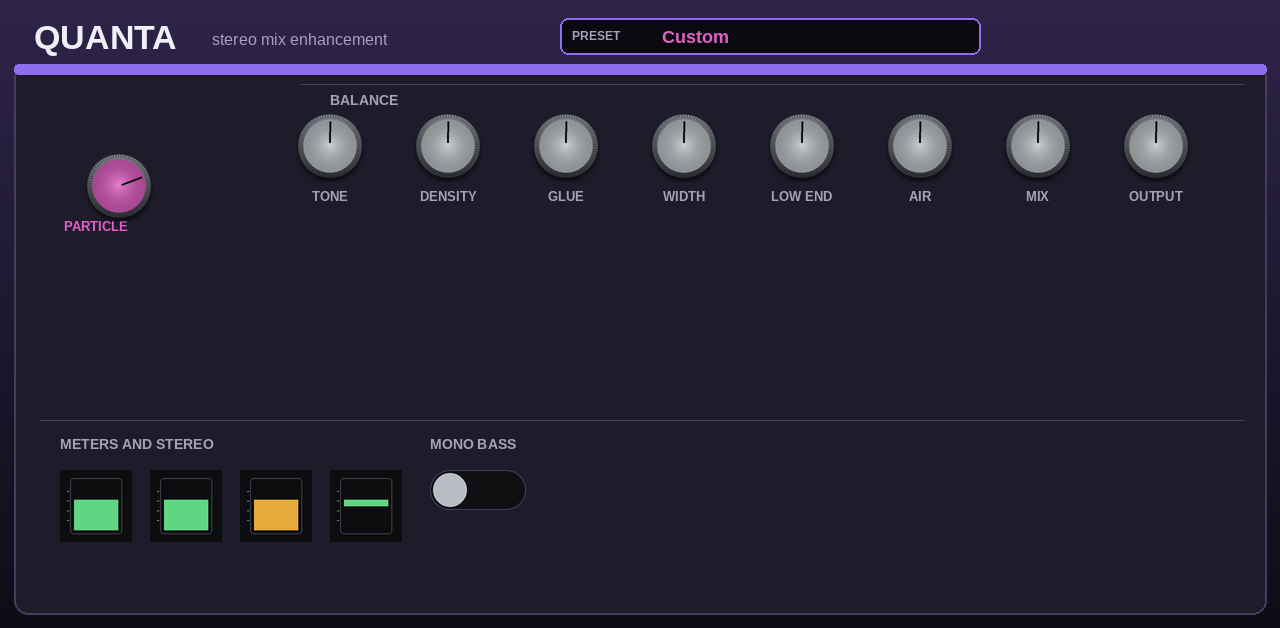
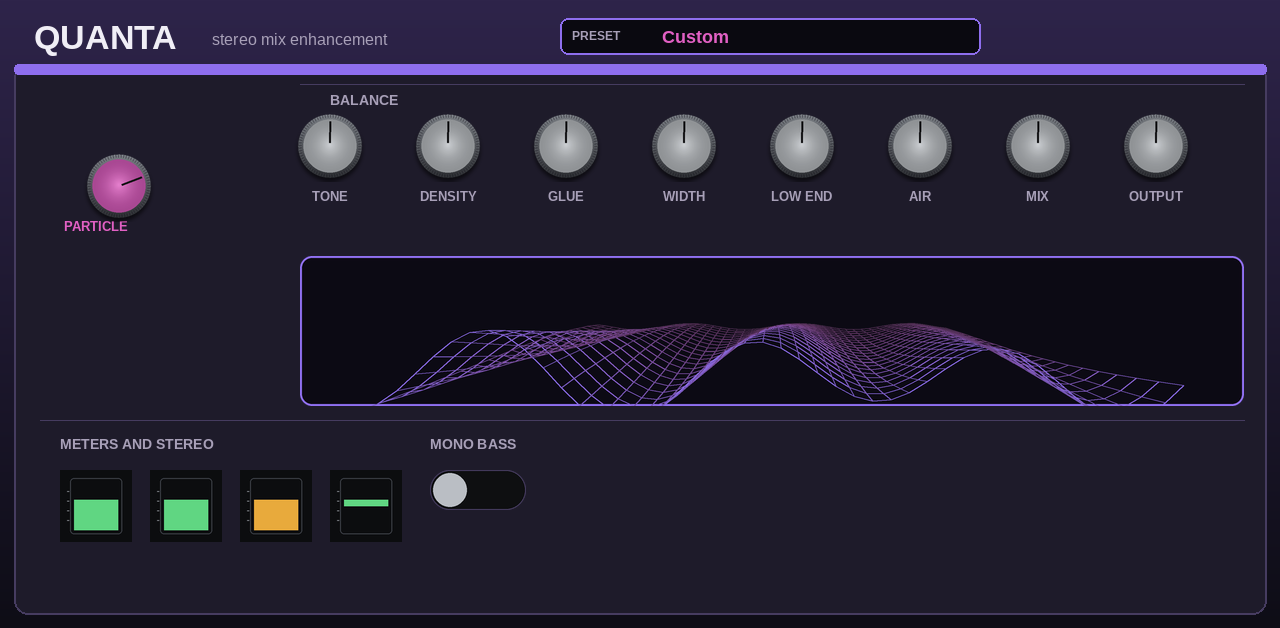
Quanta: 3D wireframe visual on the MPC skin
A large perspective wireframe of a rippling stereo surface in the open
band between the knobs and the meters, in the skin's violet and magenta.
Drawn as an original static image; it is not animated, because skin
filmstrips are limited to 72 px.

Claude-Session: https://claude.ai/code/session_01XRqyjua6wzinB9NqNDDbhg

Changed region(s): [[0.25, 0.5143, 0.9688, 0.6656], [0.25, 0.3933, 0.9688, 0.4236]]

diff --git a/Quanta/MPC/tools/make_skin.py b/Quanta/MPC/tools/make_skin.py
@@ -38,6 +38,7 @@ KNOBS = [  # key, label, column position, cap, Q-Link order
     ("mix", "MIX", 1038, SILVER), ("output", "OUTPUT", 1156, SILVER),
 ]
 PARTICLE = (60, 150)        # the main control: its own place on the left
+VISUAL_BOX = (300, 256, 944, 150)  # the 3D stereo visual: the open band between the knobs and the meters
 PRESET_BOX = (560, 18, 420, 36)   # preset display in the header band; turn or drag to step through presets
 
 def font(size, bold=True):
@@ -54,6 +55,32 @@ def mix(a, b, t): return tuple(int(a[i] + (b[i] - a[i]) * t) for i in range(3))
 def hexcol(c, a=255): return "%02x%02x%02x%02x" % (a, c[0], c[1], c[2])
 def ang_xy(cx, cy, r, deg):
     a = math.radians(deg - 90); return cx + r * math.cos(a), cy + r * math.sin(a)
+
+def visual3d(w, h):
+    """a 3D wireframe of a stereo field: a surface rippling toward the viewer, drawn in perspective with depth shading"""
+    im = Image.new("RGBA", (w * SS, h * SS), (0, 0, 0, 0)); d = ImageDraw.Draw(im)
+    W2, H2 = w * SS, h * SS
+    d.rounded_rectangle([0, 0, W2 - 1, H2 - 1], radius=12 * SS, fill=(12, 10, 20, 255), outline=rgba(VIOLET, 255), width=2 * SS)
+    cx, horizon, fx, fy, cam_h = W2 / 2, H2 * 0.22, W2 * 0.40, H2 * 1.30, 1.0
+    rows, cols = 22, 46
+    def height(x, z):   # the surface: two ripples that grow toward the viewer
+        return 0.55 * math.sin(3.2 * math.pi * x + 2.2 * z) * (0.25 + z) + 0.25 * math.cos(2.0 * math.pi * x - 1.3 * z) * z
+    def project(x, z):     # z = 1 is the front row (lowest on screen), z = 0 the far edge at the horizon
+        depth = 2.2 + (1.0 - z) * 3.0
+        return cx + x * 2.4 * fx / depth, horizon + (cam_h - height(x, z) * 0.6) * fy / depth
+    lines = []
+    for r in range(rows):           # rows run from far (z 0) to near (z 1)
+        z = r / (rows - 1)
+        lines.append([project(-1.0 + 2.0 * c / (cols - 1), z) for c in range(cols)] + [z])
+    for r in range(rows):
+        pts, z = lines[r][:-1], lines[r][-1]
+        t = z
+        for c in range(cols - 1):
+            d.line([pts[c], pts[c + 1]], fill=rgba(mix(ACCENT, VIOLET, t), int(60 + 180 * t)), width=max(1, SS))
+    for c in range(cols):           # the columns that give the surface its 3D shape
+        for r in range(rows - 1):
+            d.line([lines[r][c], lines[r + 1][c]], fill=rgba(mix(ACCENT, VIOLET, lines[r][-1]), int(50 + 150 * lines[r][-1])), width=max(1, SS))
+    return im.resize((w, h), Image.LANCZOS)
 
 def background():
     im = Image.new("RGB", (W, H), INK)
@@ -72,6 +99,10 @@ def background():
         d.text((cx, 196), text, font=font(13), fill=DIM, anchor="mm")
     d.text((PARTICLE[0] + 36, 226), "PARTICLE", font=font(13), fill=ACCENT, anchor="mm")
     d.line([300, 84, 1244, 84], fill=EDGE, width=1)
+    vx, vy, vw, vh = VISUAL_BOX
+    vis = visual3d(vw, vh)
+    im.paste(vis.convert("RGB"), (vx, vy), vis.split()[3])
+    d = ImageDraw.Draw(im)
     bx, by, bw, bh = PRESET_BOX
     d.rounded_rectangle([bx, by, bx + bw, by + bh], radius=8, fill=(10, 9, 16), outline=VIOLET, width=2)
     d.text((bx + 12, by + bh / 2), "PRESET", font=font(12), fill=DIM, anchor="lm")
